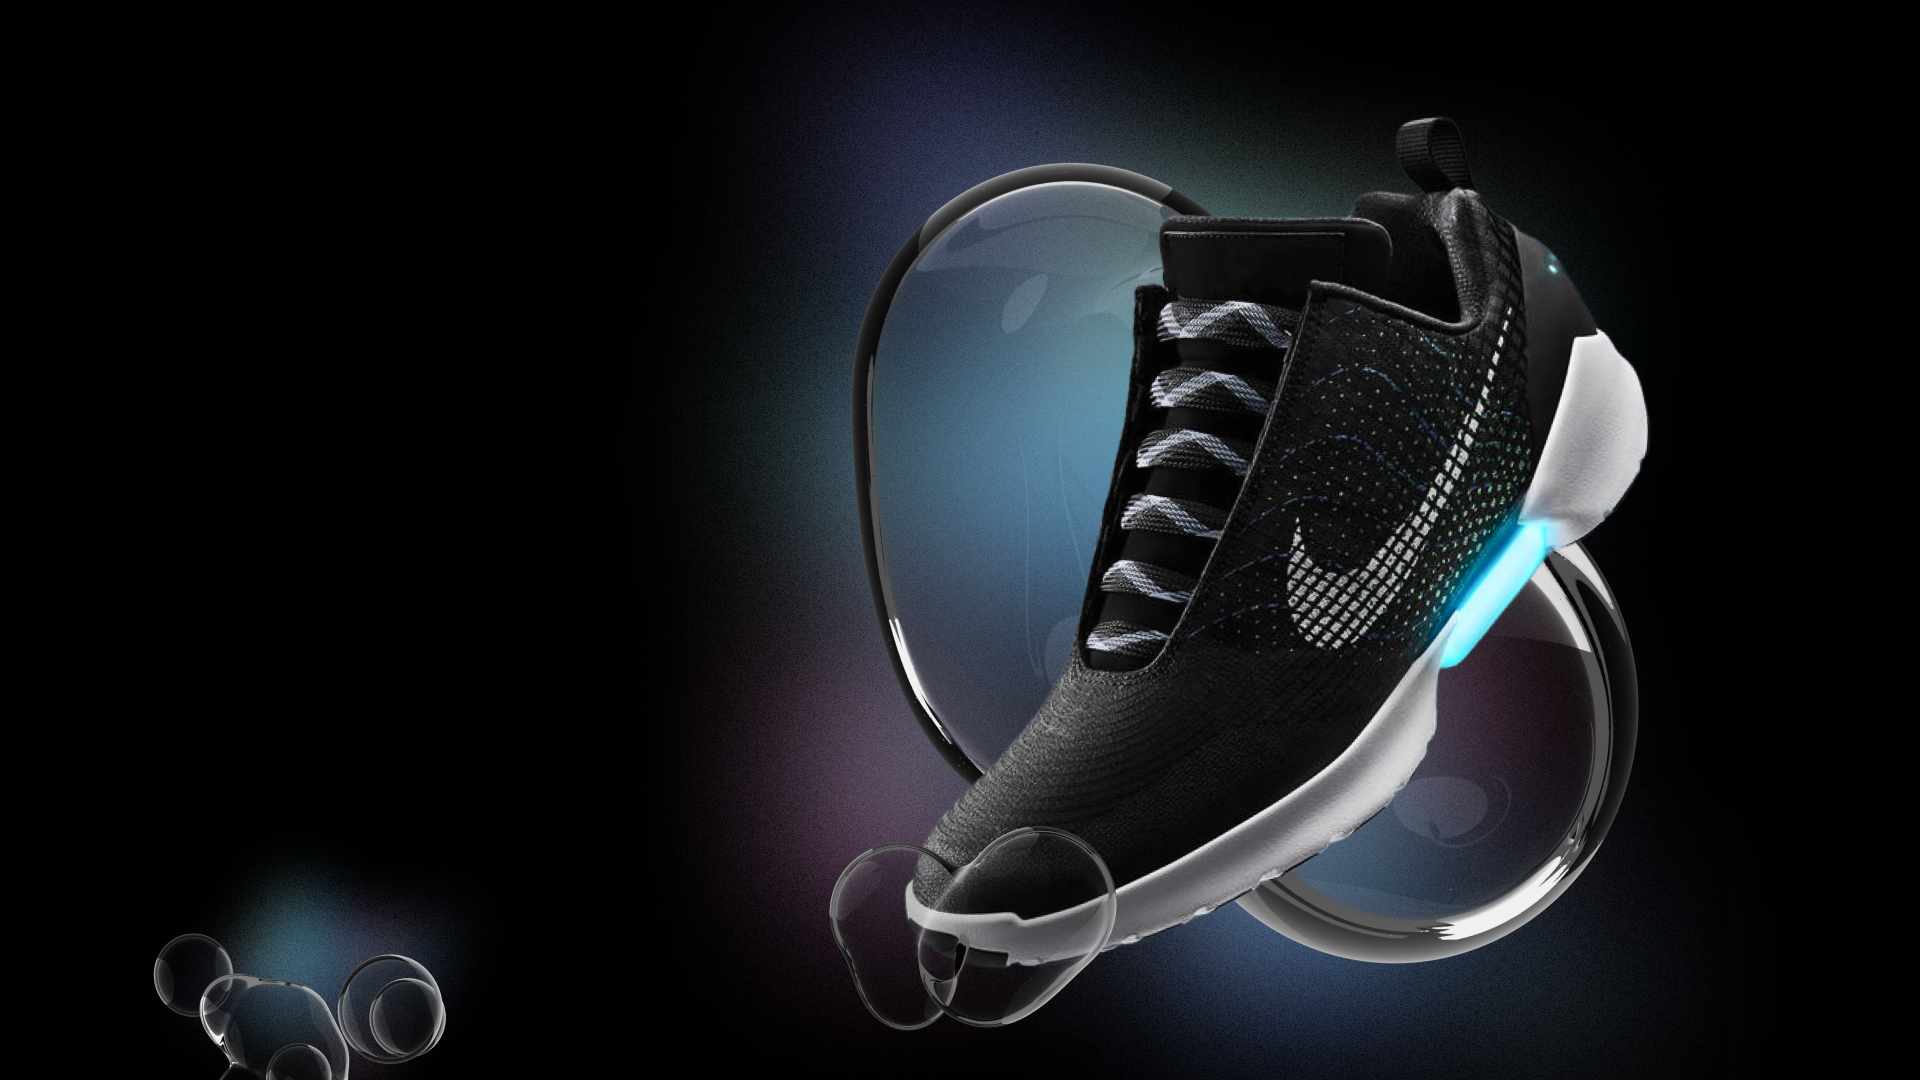
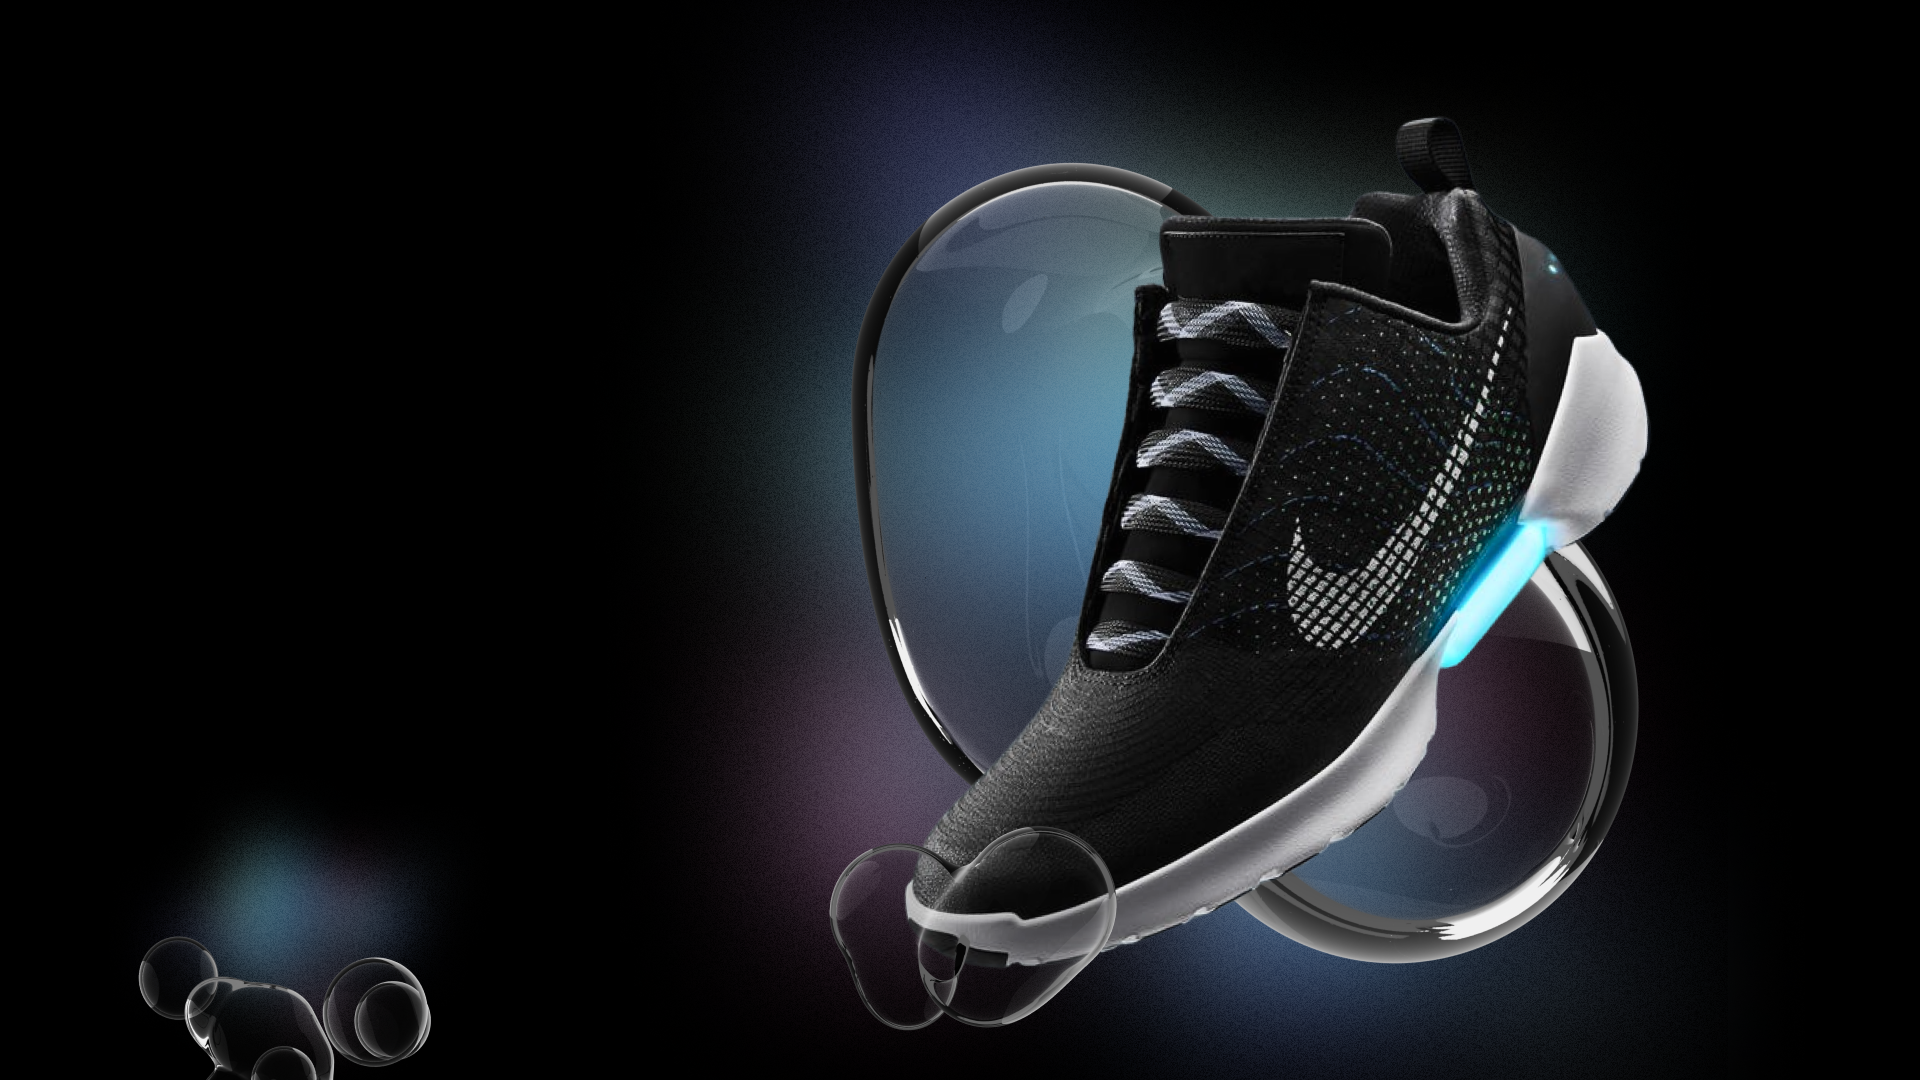
fix: adjustments bgHome in image

Changed region(s): [[0.0625, 0.7639, 0.25, 1.0]]

diff --git a/src/components/Home.tsx b/src/components/Home.tsx
@@ -1,8 +1,8 @@
 export function HomePage() {
   return (
-    <div className="w-screen bg-home h-screen bg-cover bg-no-repeat">
+    <div className="w-screen bg-black">
       <div
-        className="max-w-[1540px] h-screen mx-auto flex flex-row
+        className="max-w-[1540px] h-screen mx-auto flex flex-row  bg-home  bg-cover bg-no-repeat
       "
       >
         <div className="text-white mt-[10rem] justify-start w-[30rem]">
